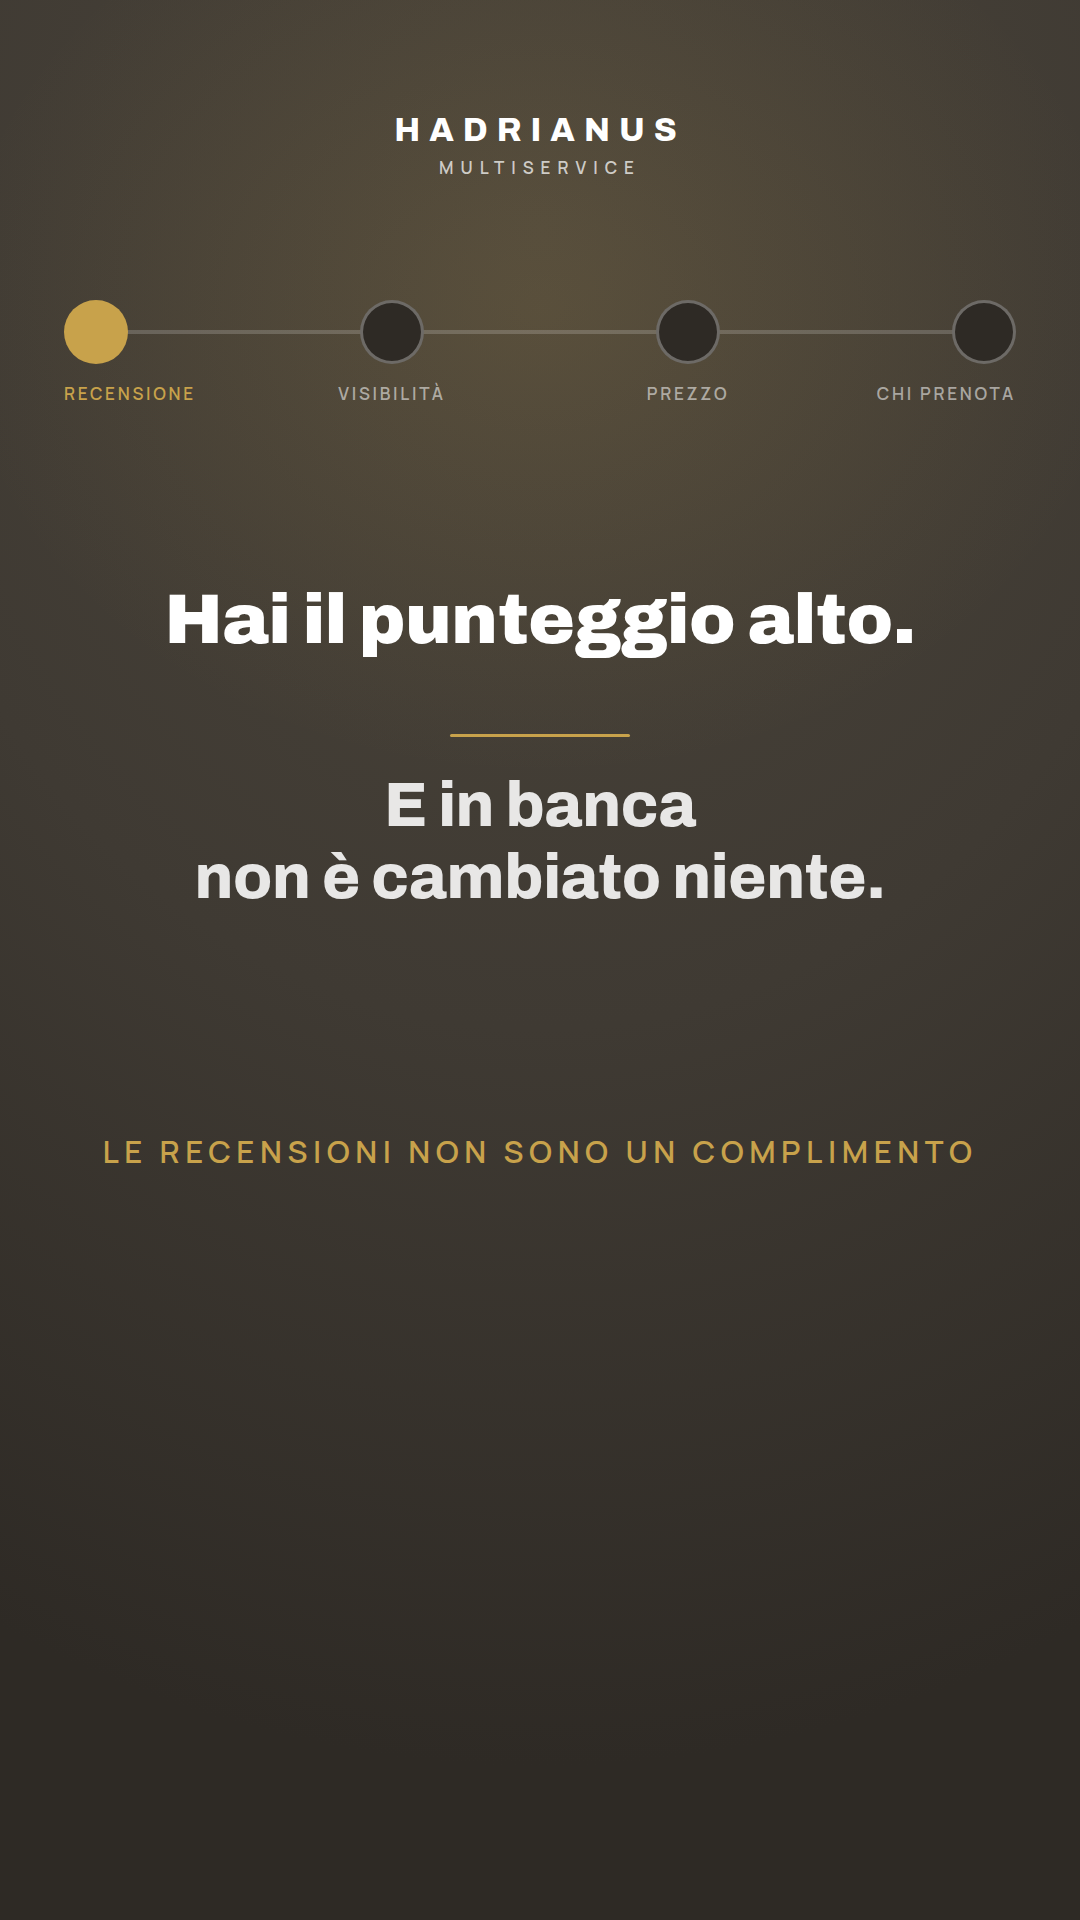
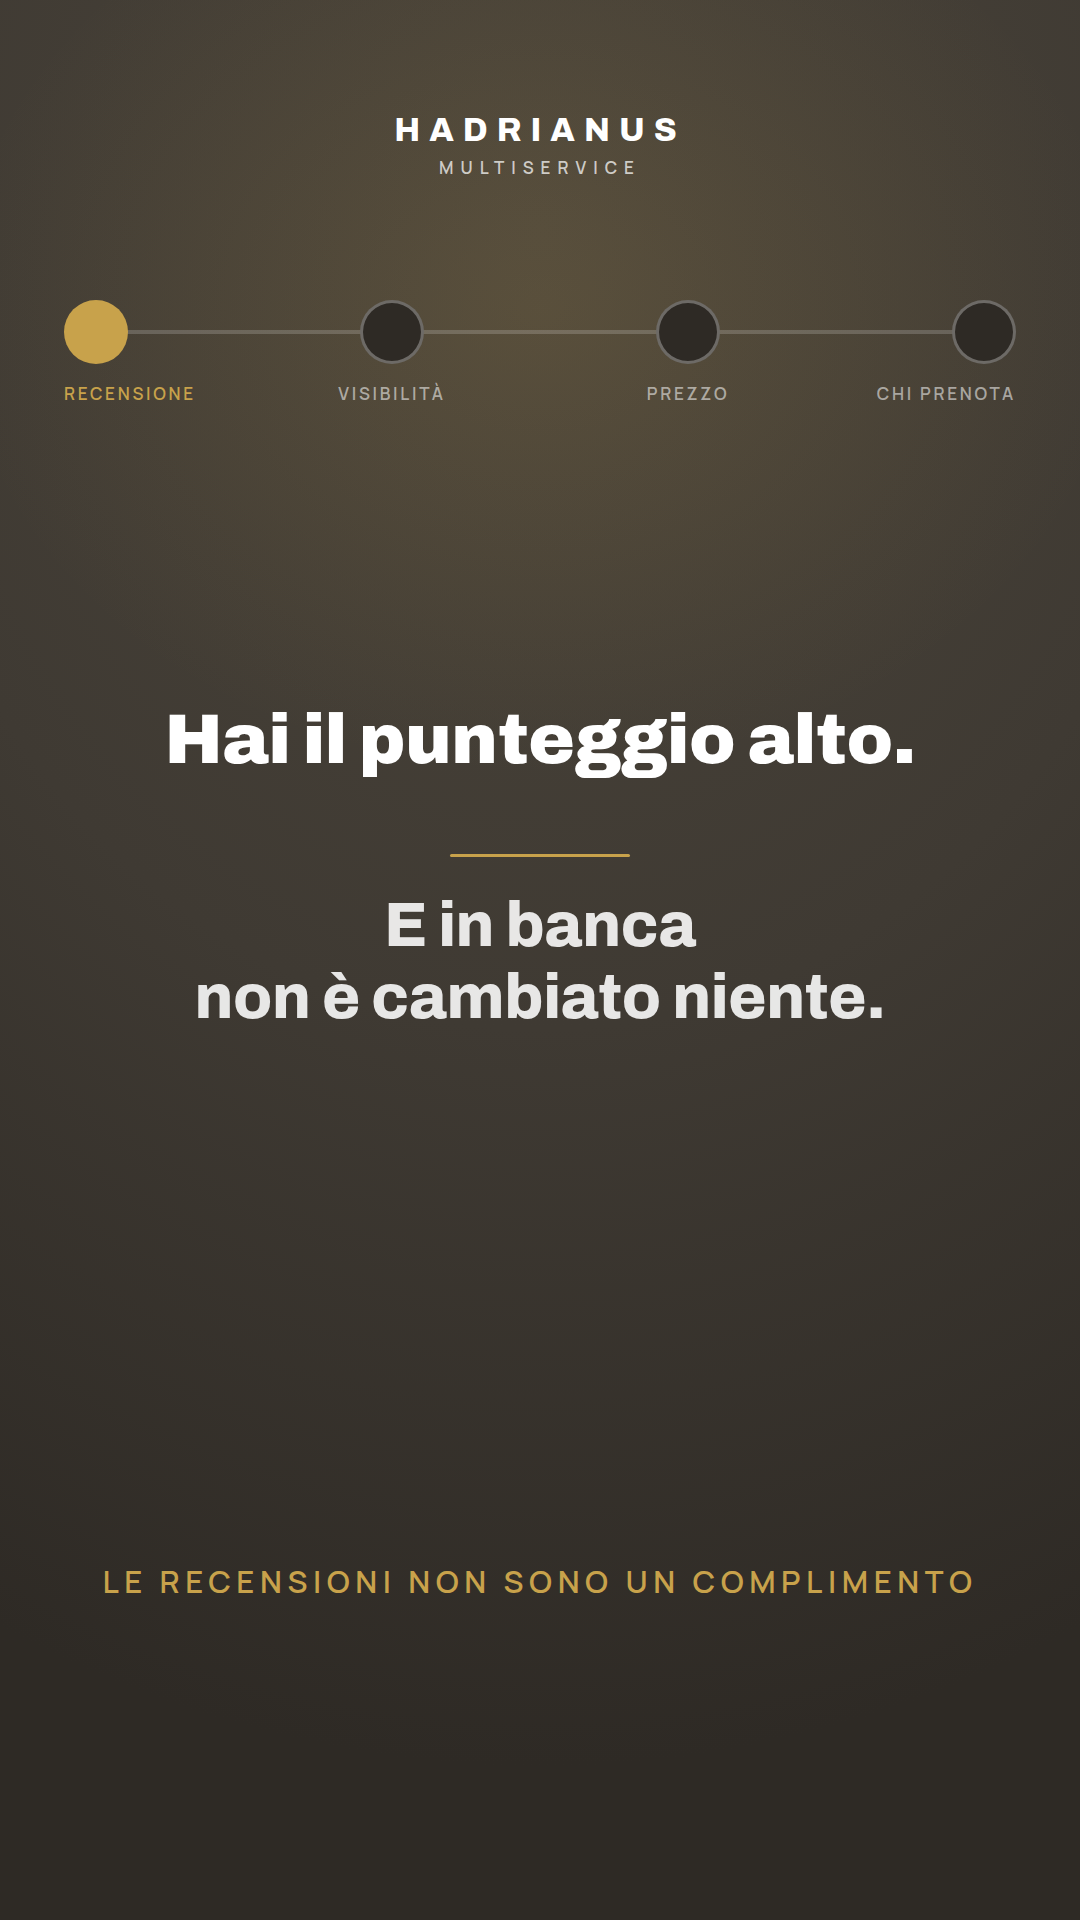
Giornata 18/09: F1 ridistribuita sull'altezza piena
La revisione chiedeva di alzare il blocco di F1, ma cosi' il vuoto in
fondo peggiorava: erano gia' 700 px morti su 1920, un terzo
dell'immagine. Contenuto ridistribuito invece che alzato, col kicker che
ancora il fondo. Nel collage Facebook il 9:16 si vede intero.

Verificati gli altri sei interventi della revisione: tutti applicati.

Claude-Session: https://claude.ai/code/session_01DiTAjmkDvMJQQ8X5h72M34

diff --git a/campagne/giornaliero/2026-09-18/grafiche/F1.dc.html b/campagne/giornaliero/2026-09-18/grafiche/F1.dc.html
@@ -27,10 +27,10 @@
   <div style="position: absolute; left: 688.0px; transform: translateX(-50%); top: 382px; white-space: nowrap; font-family: 'Manrope', 'Helvetica Neue', Arial, sans-serif; font-weight: 600; font-size: 17px; letter-spacing: 0.16em; text-transform: uppercase; color: rgba(255,255,255,0.55);">PREZZO</div>
   <div style="position: absolute; left: 952.0px; top: 300px; width: 64px; height: 64px; border-radius: 999px; background: #2E2A25; border: 3px solid rgba(255,255,255,0.30);"></div>
   <div style="position: absolute; right: 64px; top: 382px; white-space: nowrap; font-family: 'Manrope', 'Helvetica Neue', Arial, sans-serif; font-weight: 600; font-size: 17px; letter-spacing: 0.16em; text-transform: uppercase; color: rgba(255,255,255,0.55);">CHI PRENOTA</div>
-  <div style="position: absolute; left: 64px; right: 64px; top: 580px; text-align: center; font-family: 'Archivo', 'Helvetica Neue', Arial, sans-serif; font-weight: 900; font-size: 70px; line-height: 1.16; letter-spacing: -0.4px; color: #FFFFFF;"><div>Hai il punteggio alto.</div></div>
-  <div style="position: absolute; left: 0; right: 0; top: 720px; text-align: center;"><span style="display: inline-block; width: 180px; height: 3px; background: #C8A24B; border-radius: 2px;"></span></div>
-  <div style="position: absolute; left: 64px; right: 64px; top: 770px; text-align: center; font-family: 'Archivo', 'Helvetica Neue', Arial, sans-serif; font-weight: 800; font-size: 62px; line-height: 1.16; letter-spacing: -0.4px; color: rgba(255,255,255,0.88);"><div>E in banca</div><div>non &egrave; cambiato niente.</div></div>
-  <div style="position: absolute; left: 64px; right: 64px; top: 1130px; text-align: center; font-family: 'Manrope', 'Helvetica Neue', Arial, sans-serif; font-weight: 600; font-size: 31px; letter-spacing: 0.18em; text-transform: uppercase; color: #C8A24B;">Le recensioni non sono un complimento</div>
+  <div style="position: absolute; left: 64px; right: 64px; top: 700px; text-align: center; font-family: 'Archivo', 'Helvetica Neue', Arial, sans-serif; font-weight: 900; font-size: 70px; line-height: 1.16; letter-spacing: -0.4px; color: #FFFFFF;"><div>Hai il punteggio alto.</div></div>
+  <div style="position: absolute; left: 0; right: 0; top: 840px; text-align: center;"><span style="display: inline-block; width: 180px; height: 3px; background: #C8A24B; border-radius: 2px;"></span></div>
+  <div style="position: absolute; left: 64px; right: 64px; top: 890px; text-align: center; font-family: 'Archivo', 'Helvetica Neue', Arial, sans-serif; font-weight: 800; font-size: 62px; line-height: 1.16; letter-spacing: -0.4px; color: rgba(255,255,255,0.88);"><div>E in banca</div><div>non &egrave; cambiato niente.</div></div>
+  <div style="position: absolute; left: 64px; right: 64px; top: 1560px; text-align: center; font-family: 'Manrope', 'Helvetica Neue', Arial, sans-serif; font-weight: 600; font-size: 31px; letter-spacing: 0.18em; text-transform: uppercase; color: #C8A24B;">Le recensioni non sono un complimento</div>
   </div>
 </x-dc>
 </body>

diff --git a/campagne/giornaliero/2026-09-18/grafiche/build.py b/campagne/giornaliero/2026-09-18/grafiche/build.py
@@ -225,13 +225,17 @@ def facebook():
     c = frame(1080, 1920)
     c += marchio(112)
     c += catena(300, 1, d=64, etichette=True, spessore=4)
-    c += blocco(['Hai il punteggio alto.'], 580, 70, 900, allinea='center')
-    c += ('  <div style="position: absolute; left: 0; right: 0; top: 720px; '
+    # Il blocco stava fra 580 e 1170 e lasciava ~700 px morti in fondo: un terzo
+    # dell'immagine. Nel collage di Facebook il 9:16 si vede intero, quindi il
+    # vuoto si nota. Contenuto ridistribuito sull'altezza piena, con il kicker
+    # che ancora il fondo invece di galleggiare a meta'.
+    c += blocco(['Hai il punteggio alto.'], 700, 70, 900, allinea='center')
+    c += ('  <div style="position: absolute; left: 0; right: 0; top: 840px; '
           'text-align: center;"><span style="display: inline-block; width: 180px; '
           'height: 3px; background: %s; border-radius: 2px;"></span></div>\n' % ORO)
-    c += blocco(['E in banca', 'non &egrave; cambiato niente.'], 770, 62, 800, T1,
+    c += blocco(['E in banca', 'non &egrave; cambiato niente.'], 890, 62, 800, T1,
                 allinea='center')
-    c += kicker('Le recensioni non sono un complimento', 1130, colore=ORO, size=31,
+    c += kicker('Le recensioni non sono un complimento', 1560, colore=ORO, size=31,
                 allinea='center')
     scrivi(os.path.join(HERE, 'F1.dc.html'), c)
 
